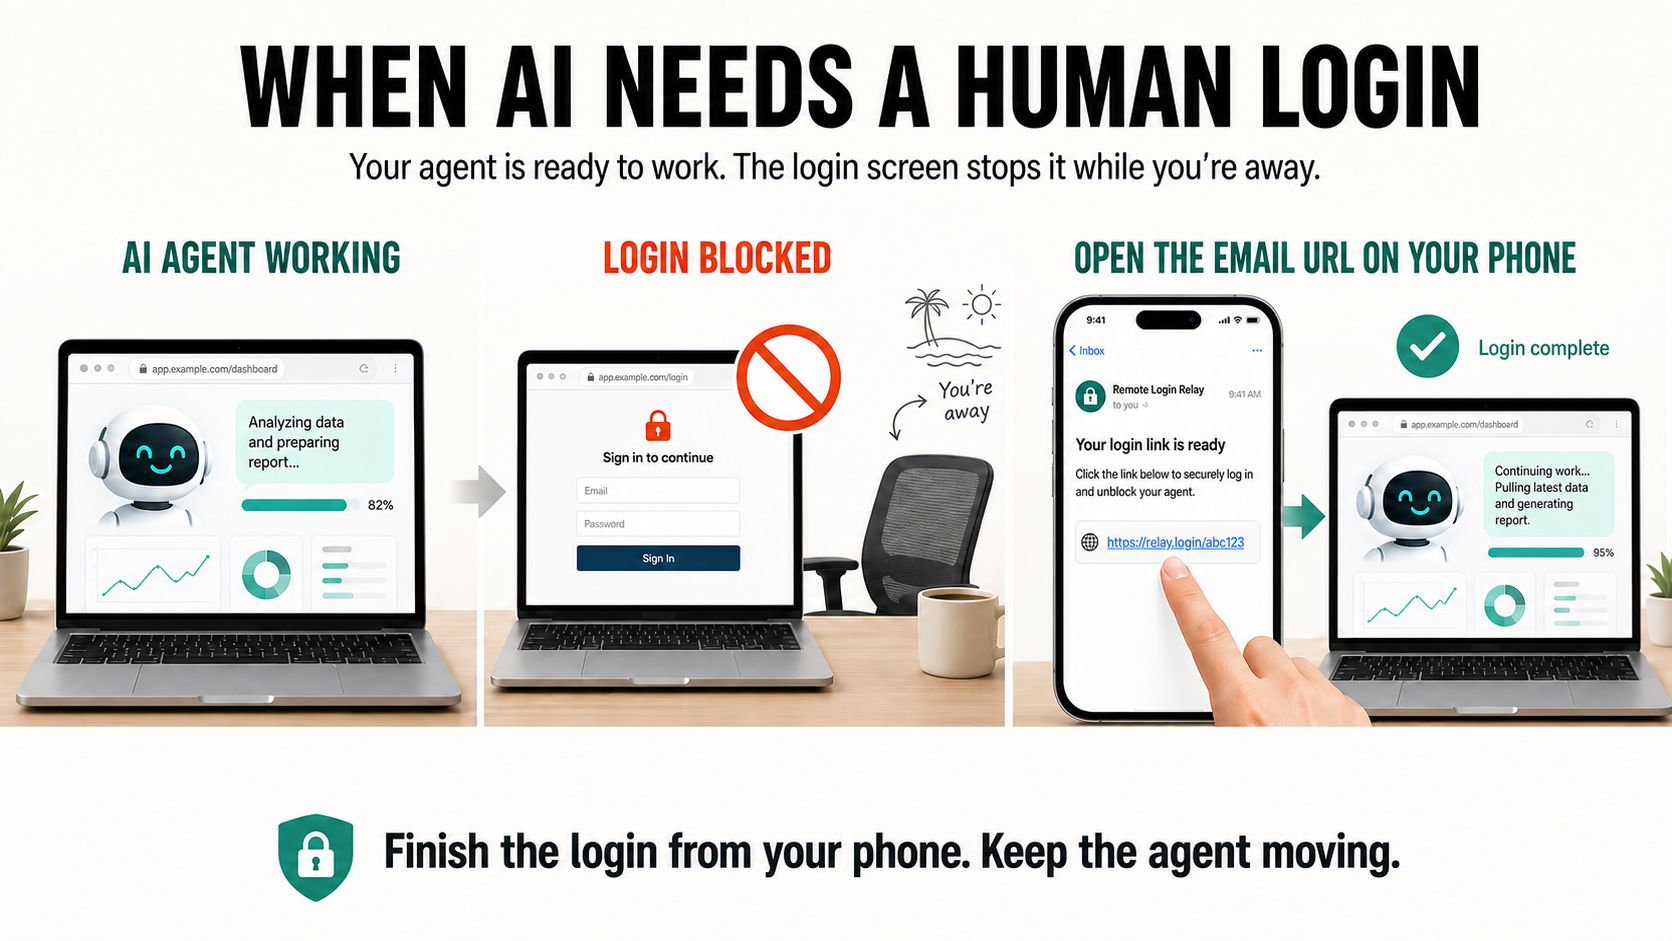
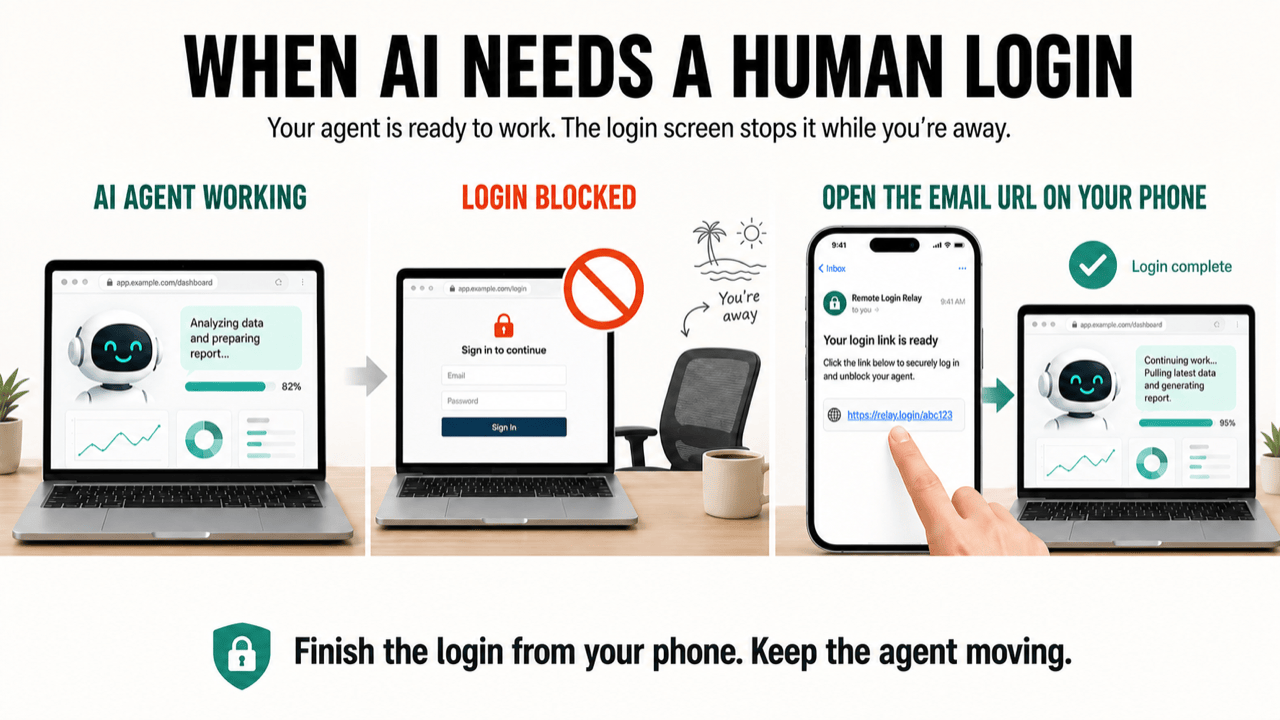
Optimize relay infographic and move it to README hero

diff --git a/README.md b/README.md
@@ -1,5 +1,7 @@
 # Remote Login Relay
 
+![Remote Login Relay: when an AI agent is blocked by login while you are away, finish the login from your phone](assets/how-it-works.png)
+
 Remote Login Relay lets you finish a human-only browser login from your phone when a local AI agent is working on your Mac.
 
 The agent hands off one exact Chrome tab for a short time. You enter the password, verification code, QR confirmation, or consent decision yourself. The agent does not receive your cookies or credentials, and the relay does not expose your whole desktop.
@@ -18,8 +20,6 @@ Local agents such as Codex and Claude Code can carry a browser workflow a long w
 The usual alternatives are awkward or too broad. You can abandon the workflow until you return to the Mac, give the agent sensitive credentials, or expose the entire desktop through a general remote-access tool. Remote Login Relay creates a narrower handoff: one selected tab, one owner, one temporary session.
 
 ## How it works
-
-![Remote Login Relay: blocked login, one-tab handoff, email link, phone login, and verified return](assets/how-it-works.png)
 
 1. The local Skill matches a specific open Chrome tab by URL or title. It stops if zero or multiple tabs match.
 2. A local gateway connects to that tab through Chrome DevTools Protocol.
